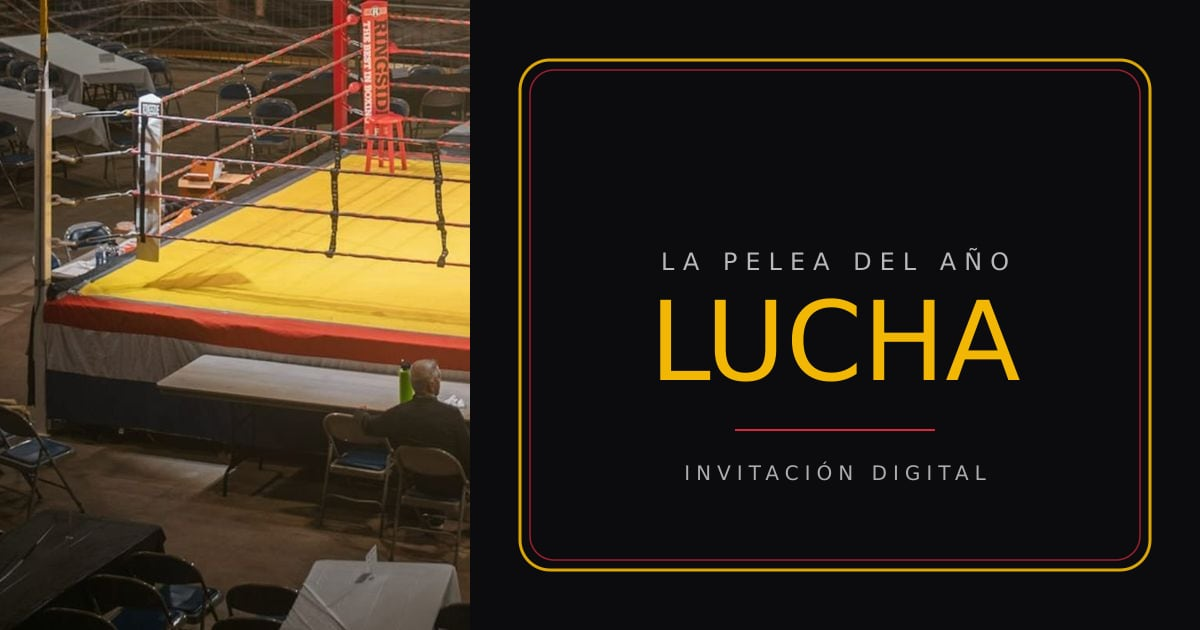
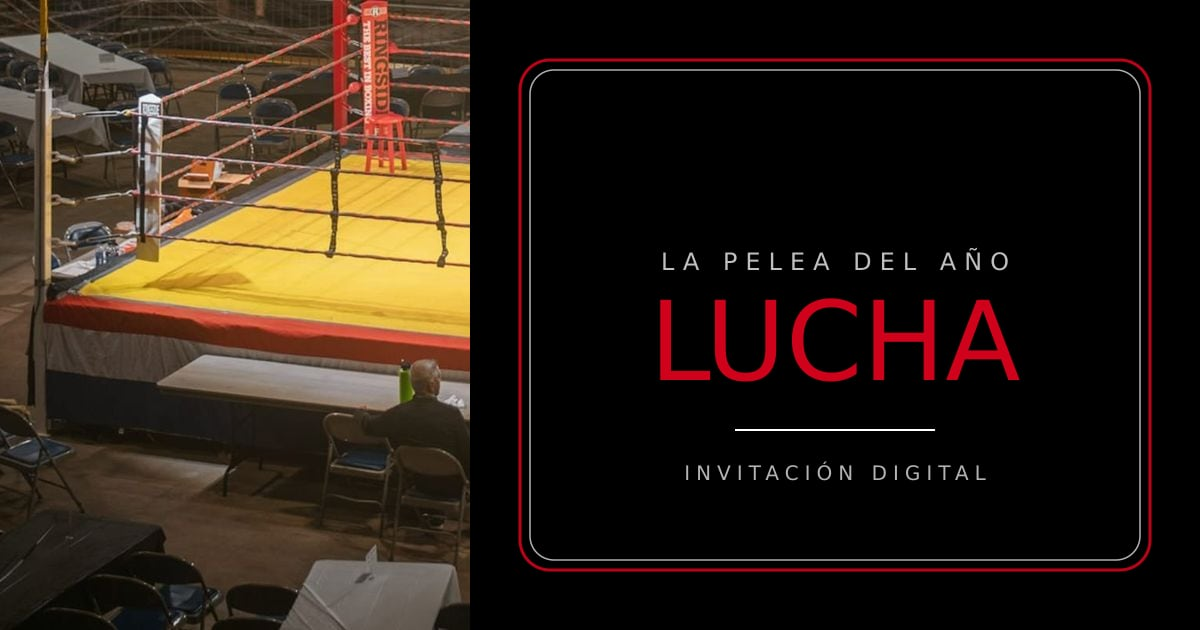
Lucha: paleta negro, blanco y rojo
El rojo intenso pasa a ser el acento, el blanco la tipografia y el negro el
fondo. El dorado queda solo en el cinturon y la campana. Rojo y oro sigue
como paleta opcional. Textos chicos en rojo aclarado para que se lean.

Changed region(s): [[0.4317, 0.0905, 0.9867, 0.9349], [0.5242, 0.4524, 0.8633, 0.6032], [0.6167, 0.6635, 0.7708, 0.6937]]

diff --git a/src/plantillas/lucha/manifiesto.ts b/src/plantillas/lucha/manifiesto.ts
@@ -9,7 +9,7 @@ export const manifiesto: Manifiesto = {
   visibilidad: 'publica',
   tiposEvento: ['infantil', 'cumpleanos'],
   portada: '/ilustraciones/lucha/portada.jpg',
-  colorTema: '#0c0c0f',
+  colorTema: '#050505',
   extras: EXTRAS_COMUNES,
   demo: {
     diasHastaEvento: 24,
@@ -32,8 +32,8 @@ export const manifiesto: Manifiesto = {
     invitado: { nombre: 'El Rayo Martín', pases: 2 },
   },
   presets: [
-    { id: 'rojo', nombre: 'Rojo y oro', muestra: '#d7263d', variables: {} },
+    { id: 'clasico', nombre: 'Negro, blanco y rojo', muestra: '#d0021b', variables: {} },
+    { id: 'oro', nombre: 'Rojo y oro', muestra: '#f2b705', variables: { '--lu-acento': '#f2b705' } },
     { id: 'azul', nombre: 'Azul eléctrico', muestra: '#2d6bff', variables: { '--lu-rojo': '#2d6bff', '--lu-rojo-osc': '#173a99' } },
-    { id: 'verde', nombre: 'Verde y oro', muestra: '#1fa35c', variables: { '--lu-rojo': '#1fa35c', '--lu-rojo-osc': '#0f5c33' } },
   ],
 };

diff --git a/README.md b/README.md
@@ -203,7 +203,7 @@ invitado está en otra zona).
 | `sakura` | Estilo anime/manga | Puertas shoji que se deslizan; viñetas con líneas de velocidad, pétalos |
 | `castillo` | Princesa de cuento | Libro de cuentos que se abre; castillo que se dibuja, estrellas |
 | `heroico` | Superhéroes en cómic | Portada de revista que se rasga; onomatopeyas que explotan |
-| `lucha` | Lucha libre | Campana y cuerdas del ring que se abren; reflectores, cinturón de campeón con el nombre, ¡K.O.! |
+| `lucha` | Lucha libre | Negro, blanco y rojo. Campana y cuerdas del ring que se abren; reflectores, cinturón de campeón con el nombre, ¡K.O.! |
 | `galaxia` | Espacial | Cohete que despega con cuenta atrás; planeta con anillo, estrellas en capas |
 | `jurasico` | Dinosaurios | Huevo que se rompe; volcán, huellas que aparecen al bajar |
 | `aracnido` | Superhéroe arácnido | Héroe que baja por su telaraña con el scroll |
